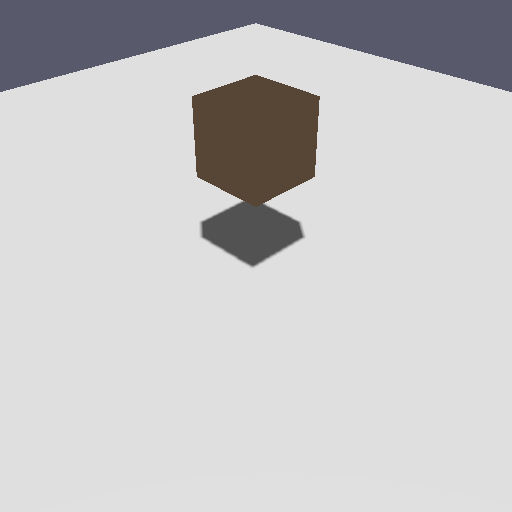
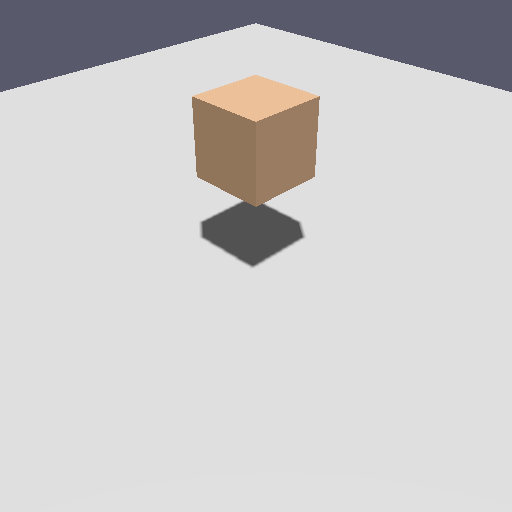
feat(renderer): primitive mesh generators (cube/plane/quad)
Real-usage gap: the only public mesh primitive was generate_sphere, so every
game and example hand-rolled cube/ground vertices. Add
`generate_cube(size)` / `generate_plane(size)` (XZ ground, +Y) /
`generate_quad(w, h)` (XY, +Z), each returning (Vec<MeshVertex>, Vec<u32>) for
Mesh::new — same style as generate_sphere — with correct per-face normals, UVs,
and computed tangents (PBR normal-map compatible).

Dogfooded: voltex_capture::unit_cube and game_ready_demo's make_unit_cube now
delegate to generate_cube (hand-rolled cube vertices removed). Verified: 4 unit
tests + the existing cube GPU regressions (single_cube_is_not_blank,
basic_renderer_applies_material_base_color, shadows_darken_ground_under_occluder)
all pass with the new generator.

Changed region(s): [[0.375, 0.125, 0.625, 0.4062]]

diff --git a/crates/voltex_renderer/src/primitives.rs b/crates/voltex_renderer/src/primitives.rs
@@ -1,0 +1,166 @@
+//! Built-in primitive mesh generators — the shapes every game reaches for.
+//! Each returns `(Vec<MeshVertex>, Vec<u32>)` (like [`generate_sphere`](crate::generate_sphere)),
+//! ready for [`Mesh::new`](crate::Mesh::new). Vertices carry correct per-face
+//! normals, UVs, and tangents so they work with both the colored and PBR
+//! (normal-mapped) paths.
+
+use voltex_image::MeshVertex;
+
+/// An axis-aligned cube of edge length `size`, centered at the origin (24
+/// vertices, 36 indices; one quad per face with outward normals and CCW winding
+/// from outside). Tangents follow each face's U texture direction.
+pub fn generate_cube(size: f32) -> (Vec<MeshVertex>, Vec<u32>) {
+    let s = size * 0.5;
+    // (normal, [4 corners CCW from outside]) — corner[0]→[1] is +U, [0]→[3] is +V.
+    let faces: [([f32; 3], [[f32; 3]; 4]); 6] = [
+        ([1.0, 0.0, 0.0], [[s, -s, s], [s, -s, -s], [s, s, -s], [s, s, s]]),
+        ([-1.0, 0.0, 0.0], [[-s, -s, -s], [-s, -s, s], [-s, s, s], [-s, s, -s]]),
+        ([0.0, 1.0, 0.0], [[-s, s, s], [s, s, s], [s, s, -s], [-s, s, -s]]),
+        ([0.0, -1.0, 0.0], [[-s, -s, -s], [s, -s, -s], [s, -s, s], [-s, -s, s]]),
+        ([0.0, 0.0, 1.0], [[-s, -s, s], [s, -s, s], [s, s, s], [-s, s, s]]),
+        ([0.0, 0.0, -1.0], [[s, -s, -s], [-s, -s, -s], [-s, s, -s], [s, s, -s]]),
+    ];
+    let uvs = [[0.0, 1.0], [1.0, 1.0], [1.0, 0.0], [0.0, 0.0]];
+
+    let mut verts = Vec::with_capacity(24);
+    for (normal, corners) in faces {
+        let tangent = face_tangent(normal, &corners);
+        for (corner, uv) in corners.iter().zip(uvs.iter()) {
+            verts.push(MeshVertex {
+                position: *corner,
+                normal,
+                uv: *uv,
+                tangent,
+            });
+        }
+    }
+    let mut indices = Vec::with_capacity(36);
+    for face in 0..6u32 {
+        let base = face * 4;
+        indices.extend([base, base + 1, base + 2, base, base + 2, base + 3]);
+    }
+    (verts, indices)
+}
+
+/// A flat ground quad on the XZ plane (`+Y` normal, CCW from above), spanning
+/// `size`×`size` centered at the origin. UVs span 0..1.
+pub fn generate_plane(size: f32) -> (Vec<MeshVertex>, Vec<u32>) {
+    let h = size * 0.5;
+    let n = [0.0, 1.0, 0.0];
+    let t = [1.0, 0.0, 0.0, 1.0];
+    let mk = |x: f32, z: f32, u: f32, v: f32| MeshVertex {
+        position: [x, 0.0, z],
+        normal: n,
+        uv: [u, v],
+        tangent: t,
+    };
+    let verts = vec![
+        mk(-h, -h, 0.0, 0.0),
+        mk(h, -h, 1.0, 0.0),
+        mk(h, h, 1.0, 1.0),
+        mk(-h, h, 0.0, 1.0),
+    ];
+    let indices = vec![0u32, 2, 1, 0, 3, 2]; // CCW from above (+Y)
+    (verts, indices)
+}
+
+/// A `width`×`height` quad on the XY plane facing `+Z` (CCW from the front),
+/// centered at the origin — for walls, sprites-as-geometry, billboards drawn as
+/// meshes, etc. UVs span 0..1.
+pub fn generate_quad(width: f32, height: f32) -> (Vec<MeshVertex>, Vec<u32>) {
+    let (hw, hh) = (width * 0.5, height * 0.5);
+    let n = [0.0, 0.0, 1.0];
+    let t = [1.0, 0.0, 0.0, 1.0];
+    let mk = |x: f32, y: f32, u: f32, v: f32| MeshVertex {
+        position: [x, y, 0.0],
+        normal: n,
+        uv: [u, v],
+        tangent: t,
+    };
+    let verts = vec![
+        mk(-hw, -hh, 0.0, 1.0),
+        mk(hw, -hh, 1.0, 1.0),
+        mk(hw, hh, 1.0, 0.0),
+        mk(-hw, hh, 0.0, 0.0),
+    ];
+    let indices = vec![0u32, 1, 2, 0, 2, 3];
+    (verts, indices)
+}
+
+/// Tangent (xyz = +U direction, w = handedness) for a quad face whose corners
+/// run `[0]→[1]` along +U and `[0]→[3]` along +V.
+fn face_tangent(normal: [f32; 3], corners: &[[f32; 3]; 4]) -> [f32; 4] {
+    let u = sub(corners[1], corners[0]);
+    let v = sub(corners[3], corners[0]);
+    let t = normalize(u);
+    // Handedness: w = sign(dot(cross(N, T), V_uv)).
+    let nt = cross(normal, t);
+    let w = if dot(nt, v) < 0.0 { -1.0 } else { 1.0 };
+    [t[0], t[1], t[2], w]
+}
+
+fn sub(a: [f32; 3], b: [f32; 3]) -> [f32; 3] {
+    [a[0] - b[0], a[1] - b[1], a[2] - b[2]]
+}
+fn dot(a: [f32; 3], b: [f32; 3]) -> f32 {
+    a[0] * b[0] + a[1] * b[1] + a[2] * b[2]
+}
+fn cross(a: [f32; 3], b: [f32; 3]) -> [f32; 3] {
+    [
+        a[1] * b[2] - a[2] * b[1],
+        a[2] * b[0] - a[0] * b[2],
+        a[0] * b[1] - a[1] * b[0],
+    ]
+}
+fn normalize(a: [f32; 3]) -> [f32; 3] {
+    let len = dot(a, a).sqrt();
+    if len > 1e-6 {
+        [a[0] / len, a[1] / len, a[2] / len]
+    } else {
+        [1.0, 0.0, 0.0]
+    }
+}
+
+#[cfg(test)]
+mod tests {
+    use super::*;
+
+    #[test]
+    fn cube_has_24_verts_36_indices() {
+        let (v, i) = generate_cube(2.0);
+        assert_eq!(v.len(), 24);
+        assert_eq!(i.len(), 36);
+        // Spans -1..1 for size 2.
+        assert!(v.iter().all(|x| x.position.iter().all(|&c| (c.abs() - 1.0).abs() < 1e-6)));
+    }
+
+    #[test]
+    fn cube_face_normals_are_unit_and_axis_aligned() {
+        let (v, _) = generate_cube(1.0);
+        for vert in &v {
+            let n = vert.normal;
+            let len = (n[0] * n[0] + n[1] * n[1] + n[2] * n[2]).sqrt();
+            assert!((len - 1.0).abs() < 1e-6, "normal not unit: {n:?}");
+            // tangent perpendicular to normal.
+            let d = n[0] * vert.tangent[0] + n[1] * vert.tangent[1] + n[2] * vert.tangent[2];
+            assert!(d.abs() < 1e-5, "tangent not perpendicular to normal");
+        }
+    }
+
+    #[test]
+    fn plane_is_up_facing() {
+        let (v, i) = generate_plane(10.0);
+        assert_eq!(v.len(), 4);
+        assert_eq!(i.len(), 6);
+        assert!(v.iter().all(|x| x.normal == [0.0, 1.0, 0.0]));
+        assert!(v.iter().all(|x| x.position[1] == 0.0));
+    }
+
+    #[test]
+    fn quad_faces_forward() {
+        let (v, i) = generate_quad(2.0, 4.0);
+        assert_eq!(v.len(), 4);
+        assert_eq!(i.len(), 6);
+        assert!(v.iter().all(|x| x.normal == [0.0, 0.0, 1.0]));
+    }
+}

diff --git a/examples/game_ready_demo/src/main.rs b/examples/game_ready_demo/src/main.rs
@@ -29,8 +29,7 @@ use voltex_renderer::gltf::{
     AnimationPath, GltfAnimation, GltfChannel, GltfNode, GltfSkin, Interpolation,
 };
 use voltex_renderer::{
-    material::MaterialUniform, mesh::Mesh, vertex::MeshVertex, PointLight, Skeleton, SkinnedMesh,
-    SkinnedMeshVertex,
+    material::MaterialUniform, mesh::Mesh, PointLight, Skeleton, SkinnedMesh, SkinnedMeshVertex,
 };
 // Sprite + Particle now come from voltex::prelude; only the free fn + the
 // skinned-pose type need explicit paths here.
@@ -478,31 +477,7 @@ fn write_player_script() -> String {
 
 /// 24-vertex unit cube (per-face normals), shared by ground / player / chaser.
 fn make_unit_cube(device: &wgpu::Device) -> Mesh {
-    let s = 0.5;
-    let faces: [([f32; 3], [[f32; 3]; 4]); 6] = [
-        ([1.0, 0.0, 0.0], [[s, -s, -s], [s, -s, s], [s, s, s], [s, s, -s]]),
-        ([-1.0, 0.0, 0.0], [[-s, -s, s], [-s, -s, -s], [-s, s, -s], [-s, s, s]]),
-        ([0.0, 1.0, 0.0], [[-s, s, -s], [s, s, -s], [s, s, s], [-s, s, s]]),
-        ([0.0, -1.0, 0.0], [[-s, -s, s], [s, -s, s], [s, -s, -s], [-s, -s, -s]]),
-        ([0.0, 0.0, 1.0], [[s, -s, s], [-s, -s, s], [-s, s, s], [s, s, s]]),
-        ([0.0, 0.0, -1.0], [[-s, -s, -s], [s, -s, -s], [s, s, -s], [-s, s, -s]]),
-    ];
-    let uvs = [[0.0, 0.0], [1.0, 0.0], [1.0, 1.0], [0.0, 1.0]];
-    let mut verts = Vec::with_capacity(24);
-    for (normal, corners) in faces {
-        for (corner, uv) in corners.iter().zip(uvs.iter()) {
-            verts.push(MeshVertex {
-                position: *corner,
-                normal,
-                uv: *uv,
-                tangent: [1.0, 0.0, 0.0, 1.0],
-            });
-        }
-    }
-    let mut indices = Vec::with_capacity(36);
-    for face in 0..6u32 {
-        let base = face * 4;
-        indices.extend([base, base + 1, base + 2, base, base + 2, base + 3]);
-    }
+    // Engine primitive — no more hand-rolled cube vertices.
+    let (verts, indices) = voltex_renderer::generate_cube(1.0);
     Mesh::new(device, &verts, &indices)
 }

diff --git a/crates/voltex_capture/src/scene.rs b/crates/voltex_capture/src/scene.rs
@@ -22,50 +22,8 @@ fn align_up(size: u32, alignment: u32) -> u32 {
 
 /// Build a unit cube mesh (24 verts, 36 indices, outward normals).
 pub(crate) fn unit_cube(device: &wgpu::Device) -> Mesh {
-    let s = 0.5;
-    let faces: [([f32; 3], [[f32; 3]; 4]); 6] = [
-        (
-            [1.0, 0.0, 0.0],
-            [[s, -s, -s], [s, -s, s], [s, s, s], [s, s, -s]],
-        ),
-        (
-            [-1.0, 0.0, 0.0],
-            [[-s, -s, s], [-s, -s, -s], [-s, s, -s], [-s, s, s]],
-        ),
-        (
-            [0.0, 1.0, 0.0],
-            [[-s, s, -s], [s, s, -s], [s, s, s], [-s, s, s]],
-        ),
-        (
-            [0.0, -1.0, 0.0],
-            [[-s, -s, s], [s, -s, s], [s, -s, -s], [-s, -s, -s]],
-        ),
-        (
-            [0.0, 0.0, 1.0],
-            [[s, -s, s], [-s, -s, s], [-s, s, s], [s, s, s]],
-        ),
-        (
-            [0.0, 0.0, -1.0],
-            [[-s, -s, -s], [s, -s, -s], [s, s, -s], [-s, s, -s]],
-        ),
-    ];
-    let uvs = [[0.0, 0.0], [1.0, 0.0], [1.0, 1.0], [0.0, 1.0]];
-    let mut verts = Vec::with_capacity(24);
-    for (normal, corners) in faces {
-        for (corner, uv) in corners.iter().zip(uvs.iter()) {
-            verts.push(MeshVertex {
-                position: *corner,
-                normal,
-                uv: *uv,
-                tangent: [1.0, 0.0, 0.0, 1.0],
-            });
-        }
-    }
-    let mut indices = Vec::with_capacity(36);
-    for face in 0..6u32 {
-        let base = face * 4;
-        indices.extend([base, base + 1, base + 2, base, base + 2, base + 3]);
-    }
+    // Delegates to the public primitive generator (edge length 1, centered).
+    let (verts, indices) = voltex_renderer::generate_cube(1.0);
     Mesh::new(device, &verts, &indices)
 }
 

diff --git a/crates/voltex_renderer/src/lib.rs b/crates/voltex_renderer/src/lib.rs
@@ -37,6 +37,7 @@ pub mod mesh;
 pub mod motion_blur;
 pub mod pbr_pipeline;
 pub mod pipeline;
+pub mod primitives;
 pub mod point_shadow;
 pub mod rt_accel;
 pub mod rt_ao;
@@ -118,6 +119,7 @@ pub use shadow::{
     SHADOW_FORMAT, SHADOW_MAP_SIZE,
 };
 pub use shadow_pipeline::{create_shadow_pipeline, shadow_pass_bind_group_layout};
+pub use primitives::{generate_cube, generate_plane, generate_quad};
 pub use sphere::generate_sphere;
 pub use spot_shadow::{spot_shadow_matrix, SpotShadowMap};
 pub use sprite::{
